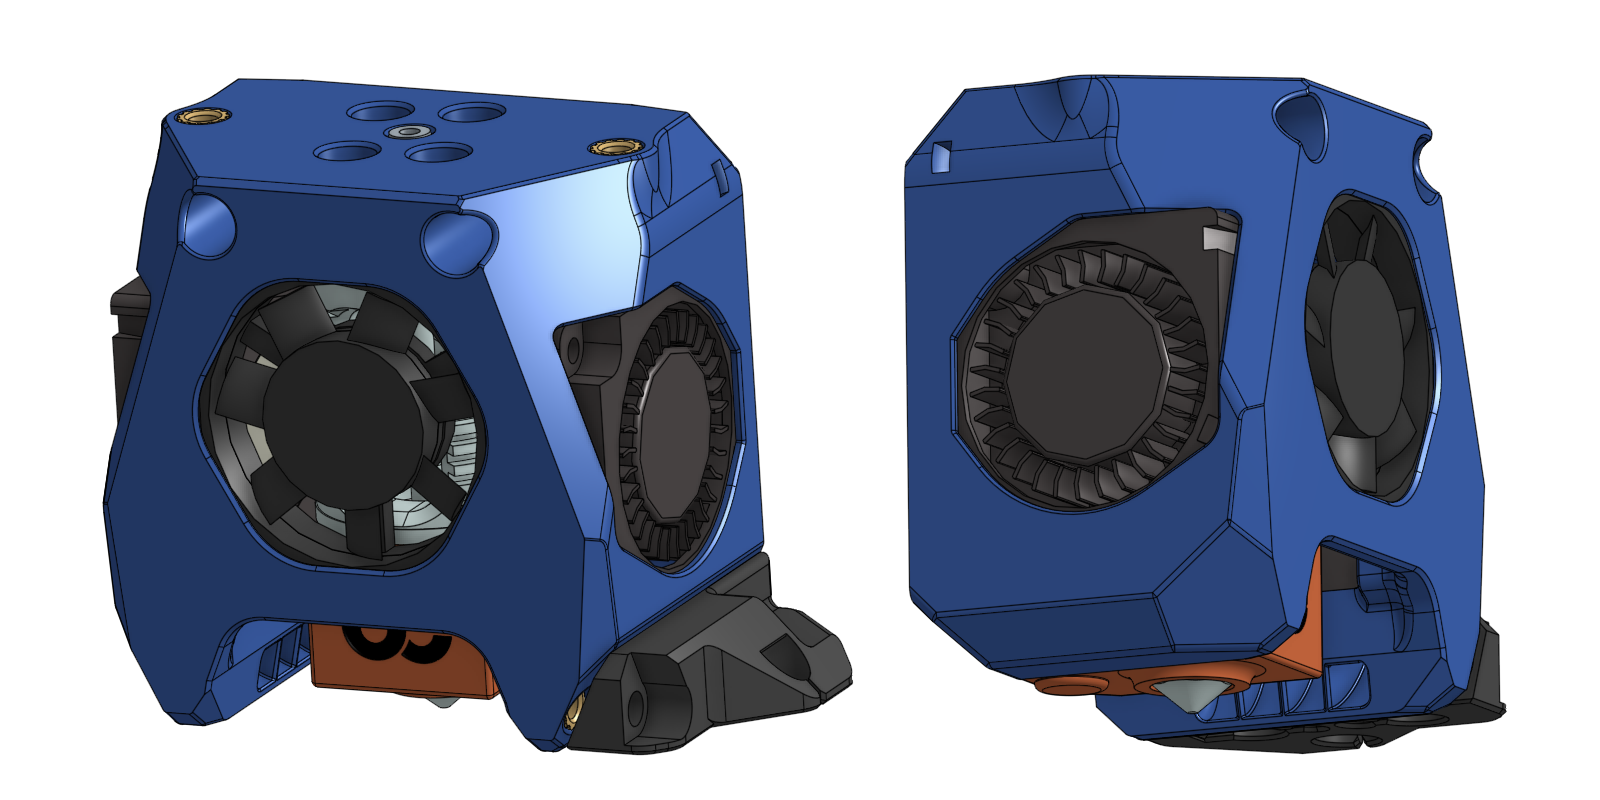
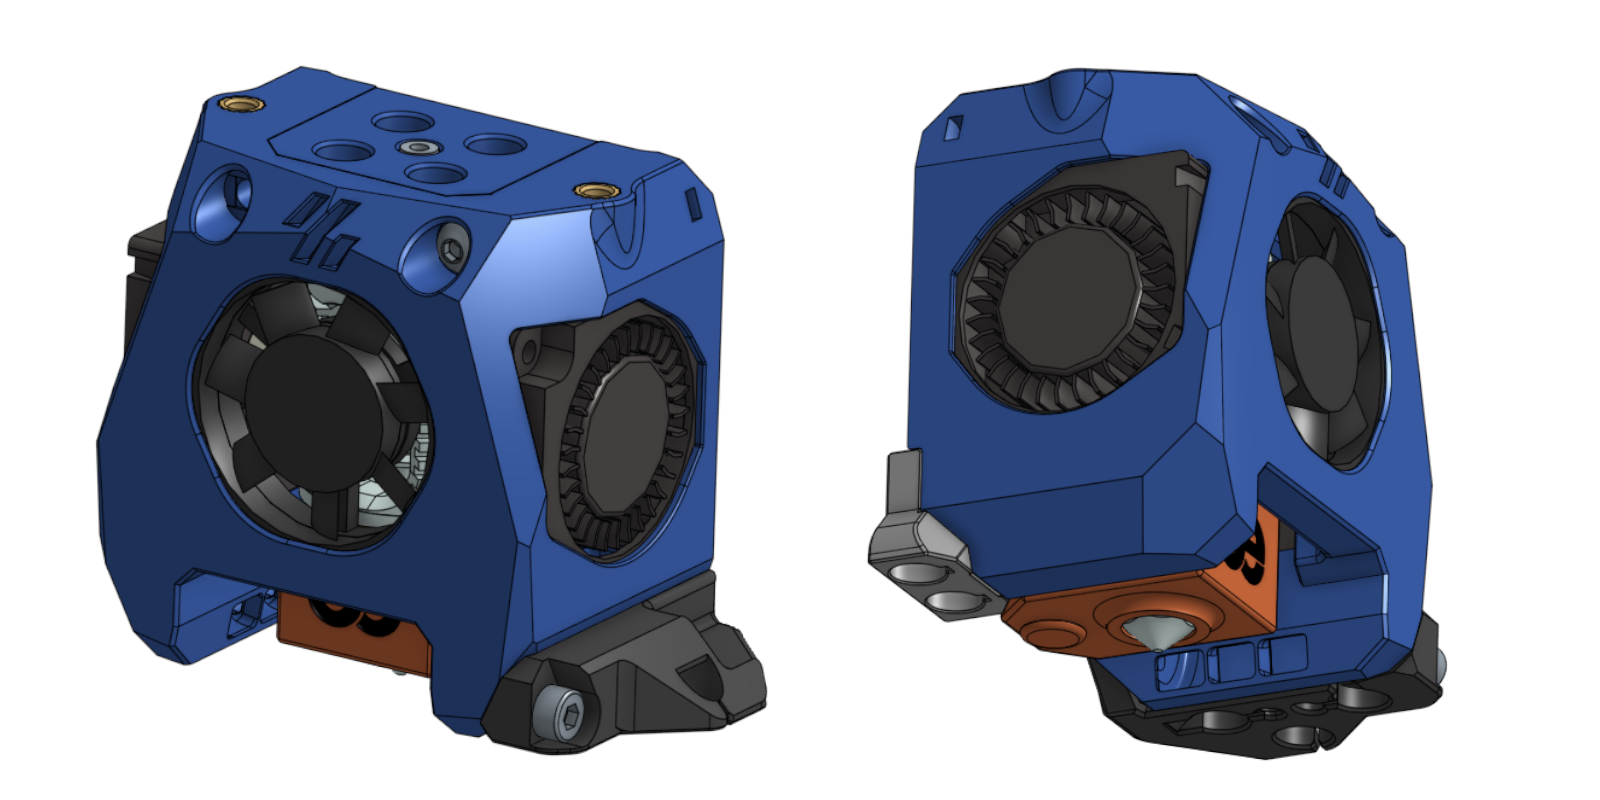
New release

diff --git a/V0/Toolhead/README.md b/V0/Toolhead/README.md
@@ -9,63 +9,82 @@ Yet another versatile toolhead design for Voron-0.
 - Shorter distance between the extruder and the hotend.
 - Light-weight printed parts.
 - The extruder will be mounted 4mm lower, so the tube is less likely to rub on the top-hat.
-- Built in cut-out for [Klicky probe for V0](https://github.com/jlas1/Klicky-Probe/tree/main/Printers/Voron/v0) and [ZeroClick](https://github.com/zruncho3d/ZeroClick) (use the provided probe STL in this repo).
-- Redesigned part cooling fan duct, which I don't know is better or worse (See the [CFD simulation](#cfd-simulation) below).
+- Built in cut-out for [Klicky probe](https://github.com/jlas1/Klicky-Probe/tree/main/Printers/Voron/v0) and [ZeroClick](https://github.com/zruncho3d/ZeroClick) (use the provided probe STLs in this repo).
+- Redesigned part cooling fan duct.
 - Similar mounting style as [Mini AfterSherpa](https://github.com/PrintersForAnts/Mini-AfterSherpa)
   The mounting holes and dimensions are mostly compatible with Mini AfterSherpa but the top surface is 4mm lower
 
   ![Drawing](./Images/Drawing.png)
 
-## CFD Simulation
-
-Tried some rough CFD simulation in [Simscale](https://www.simscale.com/).
-
-Particle traces around the nozzle:
-
-<img src="./Images/Screenshot_1.jpg" width="75%">
-
-<img src="./Images/Screenshot_2.jpg" width="75%">
-
-Air velocity magnitude on a horizontal plane 0.5mm below the tip of the nozzle:
-
-<img src="./Images/Screenshot_3.jpg" width="75%">
-
 ## BOM
 
-- Heatset insert x 2 (for the extruder mount)
-- **M3x20mm** x 2 (for mounting to the carriage)
+- M3 Heatset insert x 2 (for the extruder mount)
+- **M3x30mm** x 2 (for mounting to the carriage)
 - 3010 blower fans for part cooling
 - 3007 or 3010 axial fan for hotend cooling (depending on the hotend)
 
 Optional:
 
-- One heatset insert for klicky probe mount
-- M2 self-tapping screw for ZeroClick
+- One M3 heatset insert for klicky probe mount
+- M2x8mm screw for ZeroClick (Or use the M2 self-tapping screw with Voron BOM and trim down 2mm)
+- M3x40mm x 2 (for mounting ADXL345)
 
-## Supported Hardwares
+## Supported Hardware
+
+Choose the supported extruder and hotend listed bellow and print the corresponding STL files.
 
 ### Extruder
 
-| Extruder                                                                                                                                                                                 | Adapter                             |
-| ---------------------------------------------------------------------------------------------------------------------------------------------------------------------------------------- | ----------------------------------- |
-| [Sherpa Mini](https://github.com/Annex-Engineering/Sherpa_Mini-Extruder)                                                                                                                 | not required                        |
-| [Vorxtrudort](https://github.com/nhchiu/VoronMods/tree/main/Extruder)                                                                                                                    | not required                        |
-| [Sailfin](https://github.com/CroXY3D/Sailfin-Extruder) and [Sharkfin](https://github.com/KayosMaker/Sailfin-Extruder/tree/main/Usermods/KayosMaker/Sharkfin) (with Sherpa mount variant) | `4mm_spacer` (not tested)           |
-| [Orbiter V1.5](https://orbiterprojects.com/orbiter-1-5)                                                                                                                                  | `Orbiter_V1.5_adapter` (not tested) |
+![extruder](./Images/Extruders.png)
+
+| Extruder                                                                                                                                                                                | Printed parts                                 |
+| --------------------------------------------------------------------------------------------------------------------------------------------------------------------------------------- | --------------------------------------------- |
+| [Vorxtrudort](https://github.com/nhchiu/VoronMods/tree/main/Extruder)                                                                                                                   | `Cowling.stl`                                 |
+| [Sherpa Mini](https://github.com/Annex-Engineering/Sherpa_Mini-Extruder)                                                                                                                | `Cowling.stl`                                 |
+| [Sherpa Micro](https://github.com/Annex-Engineering/Sherpa_Micro-Extruder)                                                                                                              | `Cowling.stl` and `Sherpa_micro_adapter.stl`  |
+| [Sailfin](https://github.com/CroXY3D/Sailfin-Extruder) or [Sharkfin](https://github.com/KayosMaker/Sailfin-Extruder/tree/main/Usermods/KayosMaker/Sharkfin) (with Sherpa mount variant) | `Cowling.stl` and `Sailfin_spacer.stl`        |
+| [Orbiter V1.5](https://orbiterprojects.com/orbiter-1-5)                                                                                                                                 | `Cowling.stl` and `Orbiter_V1.5_adapter.stl`  |
+| [Orbiter V2.0](https://orbiterprojects.com/orbiter-v2-0/)                                                                                                                               | `Orbiter_V2_cowling.stl`                      |
+| [LGX Lite](https://www.bondtech.se/product/lgx-lite-large-gears-extruder/)                                                                                                              | `Cowling.stl` and `LGX_Lite_adapter.stl`      |
+| [Vz-Hextrudort](https://github.com/VzBoT3D/Vz-HextrudORT)                                                                                                                               | `Cowling.stl` and `Vz-Hextrudort_adapter.stl` |
 
 ### Hotend
 
-| Hotend                         | Supported Hotend Fan | Notes                                                                                                                                       |
-| ------------------------------ | -------------------- | ------------------------------------------------------------------------------------------------------------------------------------------- |
-| Phaetus Dragon & Dragonfly BMO | 3007                 | Refer to [this image](https://github.com/PrintersForAnts/Mini-AfterSherpa/blob/main/images/hotend-mounting-holes.png) for mounting position |
-| Slice Engineering Mosquito     | 3010 & 3007          |                                                                                                                                             |
-| E3D Revo Voron                 | 3010 & 3007          | Not tested                                                                                                                                  |
+![hotend](./Images/Hotends.png)
+
+| Hotend                     | Supported Hotend Fan | Printed Part              |
+| -------------------------- | -------------------- | ------------------------- |
+| Phaetus Dragon             | 3007                 | `Dragon-Mount.stl`        |
+| Phaetus Dragonfly BMO      | 3007                 | `Dragonfly-BMO-Mount.stl` |
+| Slice Engineering Mosquito | 3010 & 3007          | `Mosquito-Mount.stl`      |
+| E3D Revo Voron             | 3010 & 3007          | `Revo-Voron-Mount.stl`    |
+| Mellow NF-Zone             | 3010 & 3007          | `NF-Zone-Mount.stl`       |
+
+## Assembly
+
+![assembly](./Images/Assembly.png)
+
+## ADXL345 Mount
+
+Print out `ADXL345_Mount.stl` and mount the ADXL345 module to it with 2 M2 self-tapping screws and 2 [printed washer (from Stealthburner)](https://github.com/VoronDesign/Voron-Stealthburner/blob/main/STLs/Stealthburner/ADXL345_Mounts/sb_adxl_washer_x2.stl).
+
+Use 2 M3x40mm screws to mount it on the toolhead for calibrating input shaper.
+
+![ADXL](Images/ADXL345.png)
 
 ## Photo
 
 ![photo](./Images/Photo.jpg)
 
 ## Changelog
+
+### 2023-01-09
+
+- Added supported extruder: Sherpa Micro, Orbiter V2.0, LGX Lite, Vz-Hextrudort
+- Added supported hotend: Mellow NF-Zone
+- Modular design for hotend and extruder so switching hotend is much easier
+- Tweaked the low-poly design
+- Filled up the gap between the klicky probe mount and the heatset insert
 
 ### 2022-08-04
 
